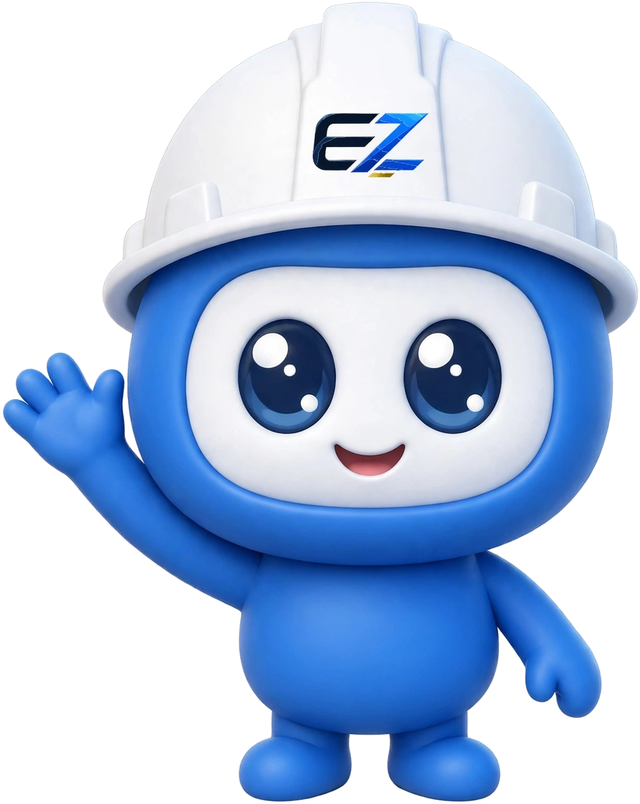
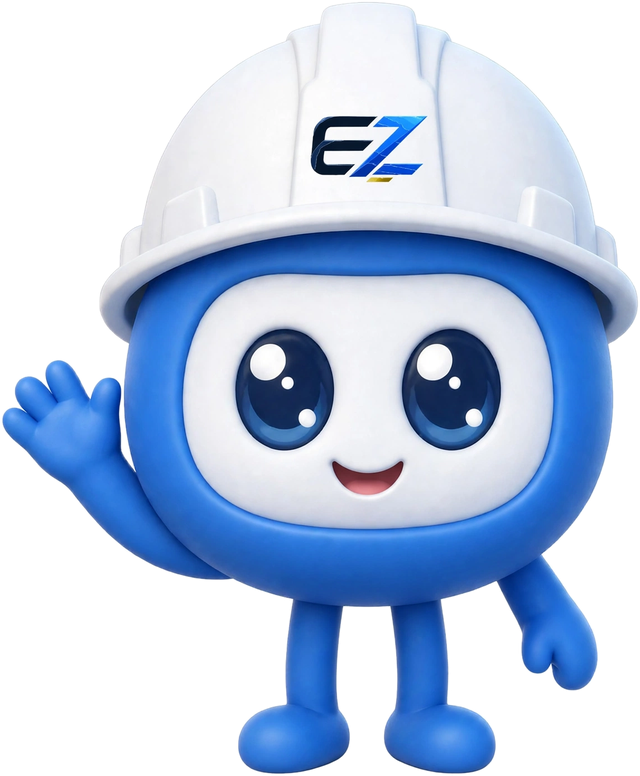
feat(landing): maskot v2 kepala + tangan + kaki (tanpa badan/perut) dan pose duduk di kotak CTA
- mascot-ezrab-fullbody.png digenerate ulang: kepala dominan, tangan
  (satu melambai) dan kaki kecil, tanpa torso/perut; dipakai .mascot-hero
- aset baru mascot-ezrab-sitting.png: pose duduk di tepi, kaki menjuntai,
  khusus .mascot-cta di atas kotak CTA
- posisi .mascot-cta disetel ulang (desktop w126 top -110; HP w94 top -82)
  mengikuti rasio aset baru; titik duduk pas di tepi atas kotak

diff --git a/src/styles/landing-ai-showcase.css b/src/styles/landing-ai-showcase.css
@@ -281,7 +281,7 @@
 .ezai-scope .acard {margin-top:8px;border:1px solid #BBF7D0;background:#F0FDF4;border-radius:10px;padding:8px 11px;font-size:12.5px;color:#166534;display:flex;gap:8px;align-items:center}
 .ezai-scope .bigamt {font-size:21px;font-weight:800;color:#0A2540}
 .ezai-scope .mascot-hero {position:absolute;right:-32px;top:-86px;width:124px;z-index:5;filter:drop-shadow(0 14px 20px rgba(13,40,80,.25))}
-.ezai-scope .mascot-cta {position:absolute;right:38px;top:-124px;width:118px;z-index:5;filter:drop-shadow(0 12px 18px rgba(2,20,60,.35))}
+.ezai-scope .mascot-cta {position:absolute;right:38px;top:-110px;width:126px;z-index:5;filter:drop-shadow(0 12px 18px rgba(2,20,60,.35))}
 @keyframes curAsst{0%{left:76%;top:88%;opacity:0}5%{opacity:1}56%{left:76%;top:88%}66%{left:33%;top:74%}70%{transform:scale(1)}72%{transform:scale(.78)}74%{transform:scale(1)}90%{opacity:1}96%,100%{left:33%;top:74%;opacity:0}}
 .ezai-scope .curAsst {animation:curAsst 12s ease-in-out infinite}
 .ezai-scope .ringAsst {left:calc(33% - 3px);top:calc(74% - 4px);animation:ringAsstA 12s ease-in-out infinite}
@@ -299,7 +299,7 @@
 .ezai-scope .plan .tag {white-space:nowrap}
 }
 @media(max-width:640px) {
-.ezai-scope .mascot-cta {width:88px;top:-90px;right:16px}
+.ezai-scope .mascot-cta {width:94px;top:-82px;right:16px}
 }
 /* Animasi transisi teks & gambar: elemen muncul berjenjang (fade + naik) saat masuk viewport; kelas .rv/.rv-on dipasang AiShowcase via IntersectionObserver (nama .rv-on dipilih agar tidak bertabrakan dengan kelas .on status online) */
 .ezai-scope .rv {opacity:0;transform:translateY(26px);transition:opacity .65s ease,transform .65s cubic-bezier(.21,.8,.28,1)}
